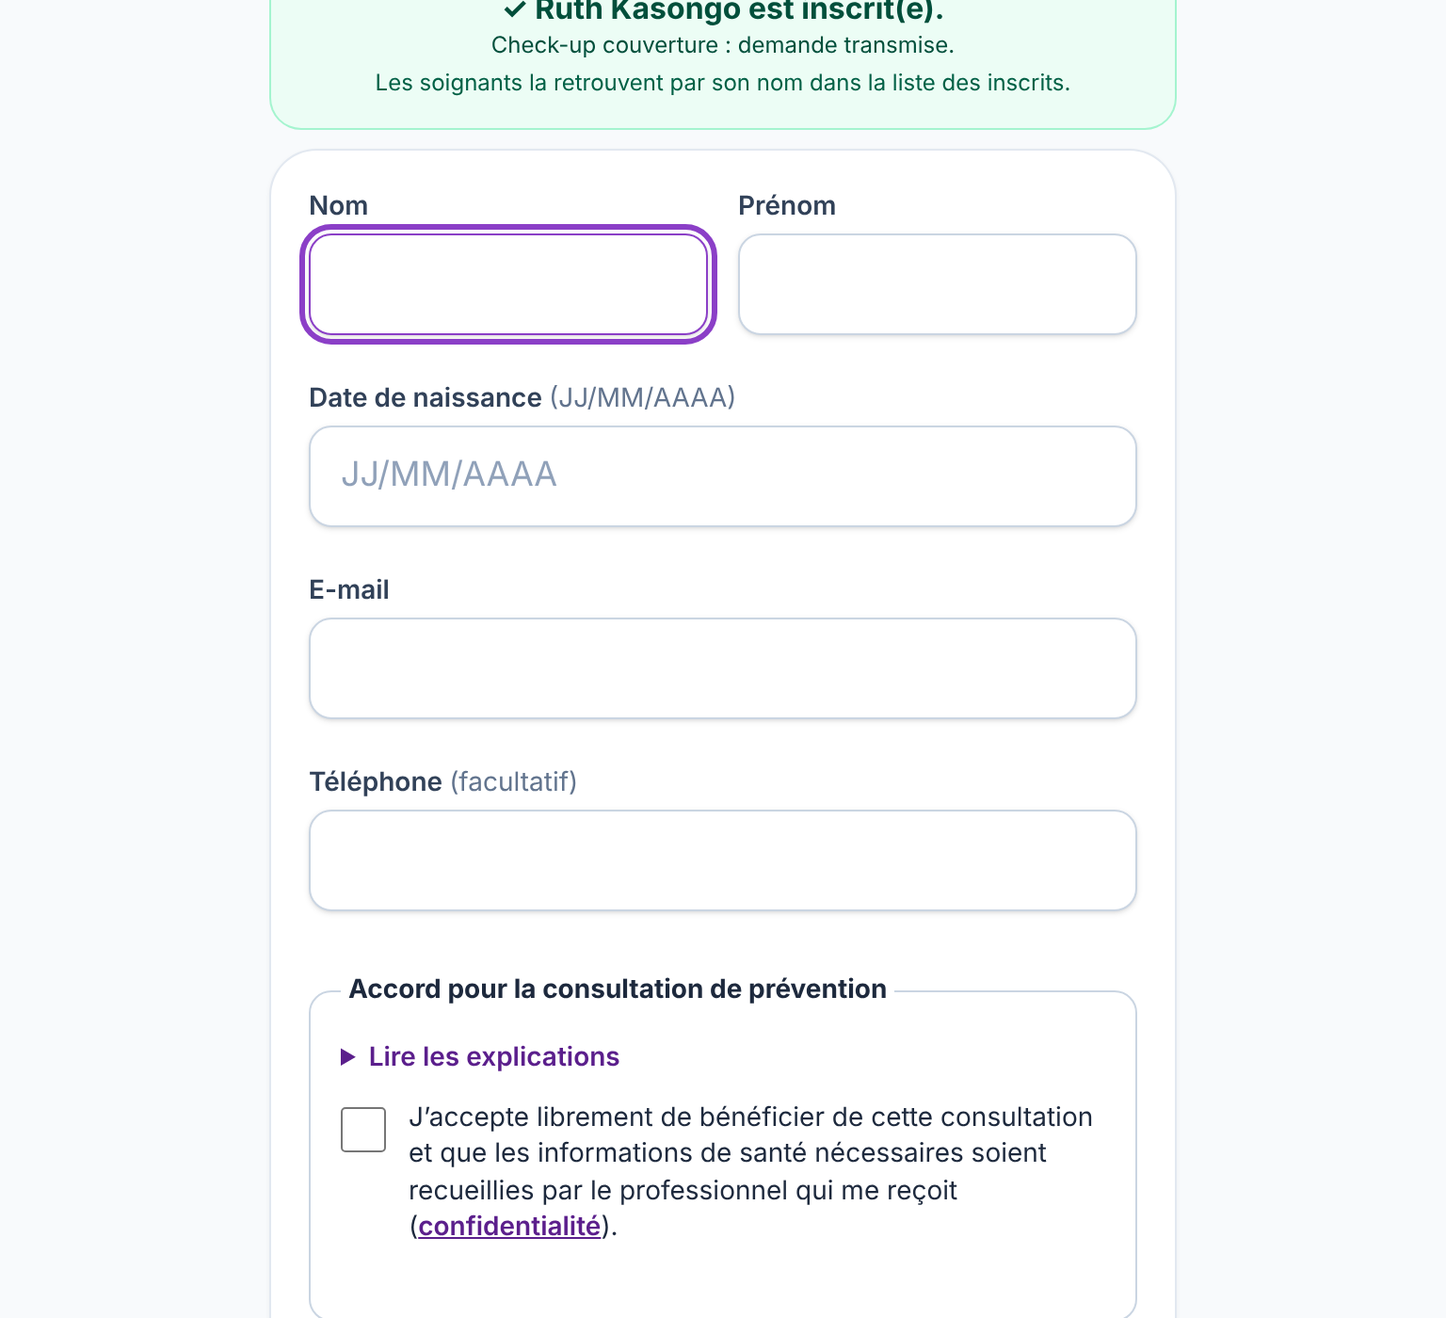
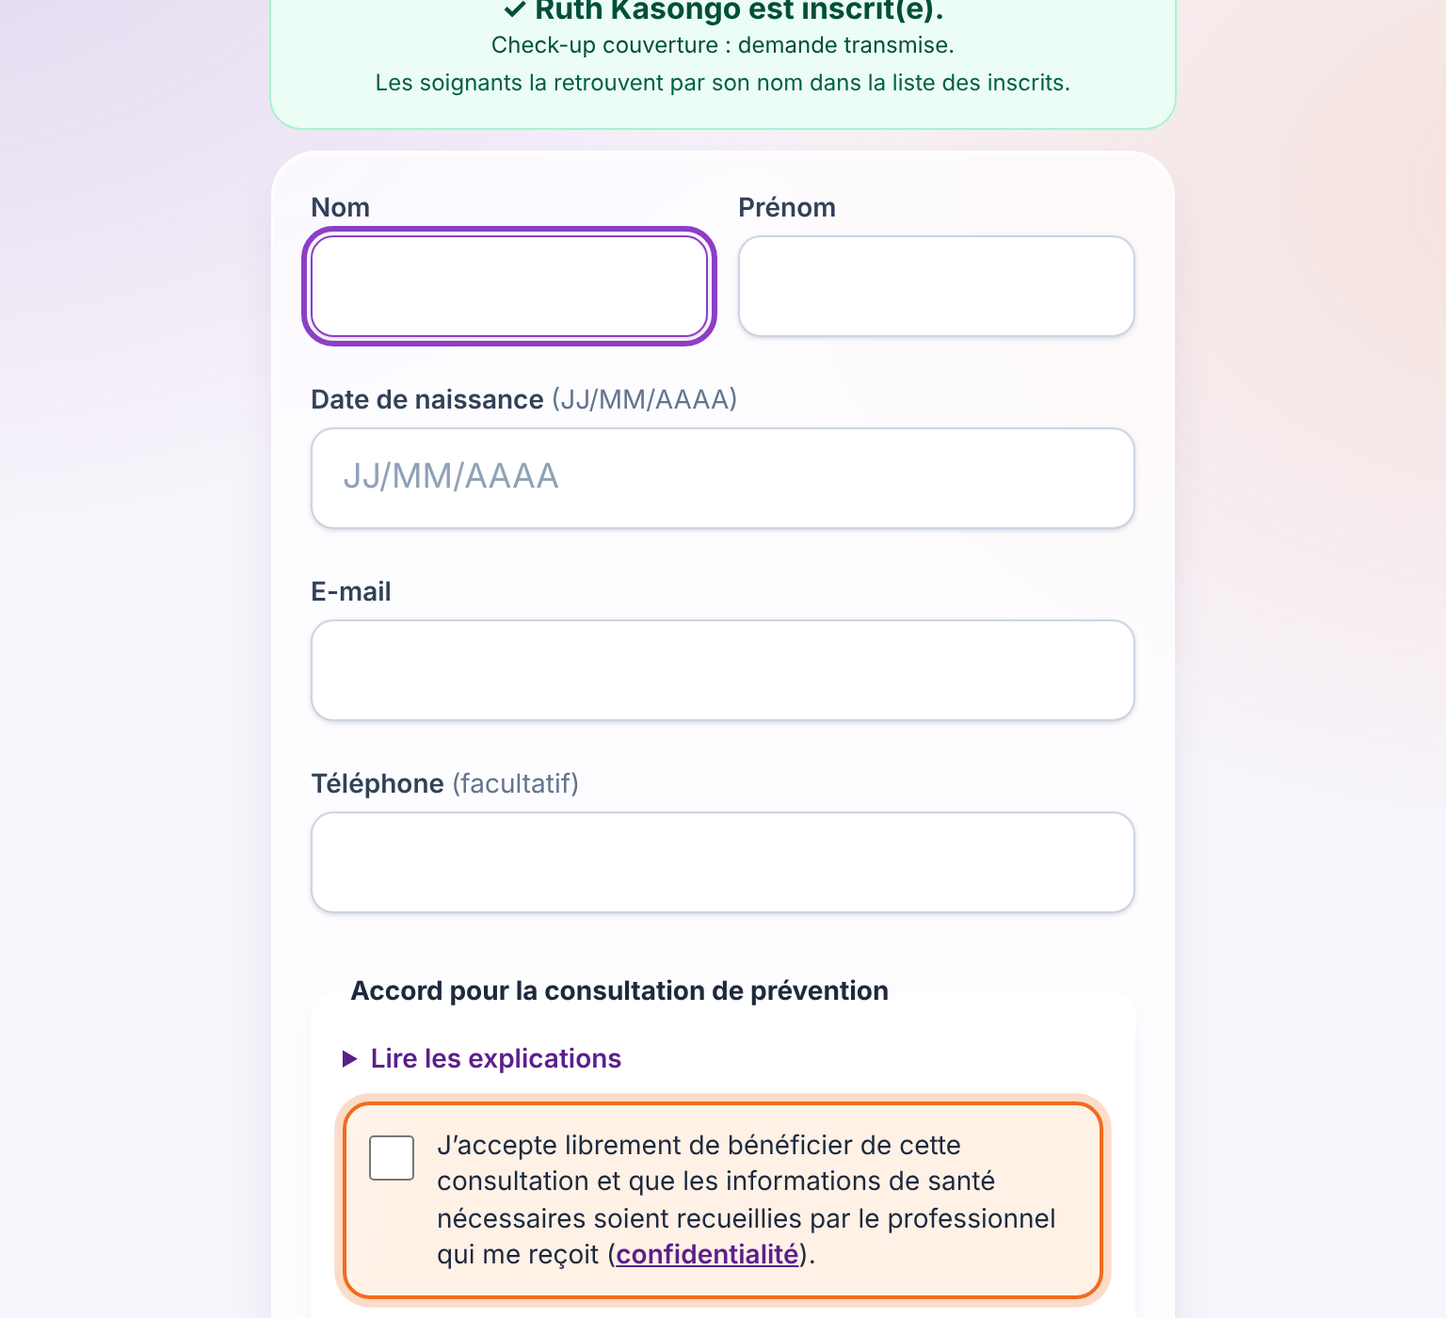
feat(ui): glassmorphism léger, ergonomie téléphone, accords obligatoires qui scintillent
- Fond dégradé violet/orange fixe, cartes et en-têtes en verre dépoli (repli opaque sans backdrop-filter)
- Téléphone : bouton « Enregistrer l'inscription » collant en bas, zones tactiles 44 px, encoches (safe-area), pas de zoom au double tap
- Accords obligatoires (consultation + transmission à un médecin) : bordure orange pulsée + reflet tant qu'ils ne sont pas cochés ;
  jamais la case publicitaire ; animation coupée si « réduire les animations »
- Gris secondaire ajusté : contraste WCAG AA (axe-core 0 défaut)

Claude-Session: https://claude.ai/code/session_0126v6MYdg9XEFrELvehvdgW

diff --git a/public/questionnaire.html b/public/questionnaire.html
@@ -24,7 +24,7 @@
     </header>
 
     <form id="survey" novalidate class="space-y-4">
-      <fieldset class="rounded-3xl bg-white p-5 shadow-sm ring-1 ring-slate-200">
+      <fieldset class="glass rounded-3xl p-5">
         <legend class="float-left mb-3 w-full text-lg font-extrabold">1. Poids, taille et IMC</legend>
         <div class="clear-both grid grid-cols-2 gap-3">
           <div><label class="label" for="s-weight">Poids (kg)</label><input class="field" id="s-weight" name="weight" inputmode="decimal" placeholder="70" autocomplete="off"><p class="err" data-err="weight"></p></div>
@@ -34,7 +34,7 @@
         <div class="mt-3"><label class="label" for="s-bmi_normal">Quelle est la valeur normale d’un IMC ?</label><input class="field" id="s-bmi_normal" name="bmi_normal" maxlength="120" autocomplete="off"></div>
       </fieldset>
 
-      <fieldset class="rounded-3xl bg-white p-5 shadow-sm ring-1 ring-slate-200">
+      <fieldset class="glass rounded-3xl p-5">
         <legend class="float-left mb-3 w-full text-lg font-extrabold">2. Périmètre abdominal</legend>
         <div class="clear-both"><label class="label" for="s-waist">Périmètre abdominal (cm)</label><input class="field" id="s-waist" name="waist" inputmode="numeric" placeholder="85" autocomplete="off"><p class="err" data-err="waist"></p></div>
         <p class="mt-2 mb-1 text-sm font-semibold text-slate-700">Quelle est la valeur normale du périmètre abdominal ?</p>
@@ -44,7 +44,7 @@
         </div>
       </fieldset>
 
-      <fieldset class="rounded-3xl bg-white p-5 shadow-sm ring-1 ring-slate-200">
+      <fieldset class="glass rounded-3xl p-5">
         <legend class="float-left mb-3 w-full text-lg font-extrabold">3. Activité physique</legend>
         <p class="clear-both mb-2 text-sm font-semibold text-slate-700">À quelle fréquence pratiquez-vous une activité physique par semaine ?</p>
         <div class="grid grid-cols-2 gap-2" data-choices="activity_freq">
@@ -57,7 +57,7 @@
         <div class="mt-3"><label class="label" for="s-activity_minutes">Minutes d’activité physique par semaine (en moyenne)</label><input class="field" id="s-activity_minutes" name="activity_minutes" inputmode="numeric" placeholder="90" autocomplete="off"><p class="err" data-err="activity_minutes"></p></div>
       </fieldset>
 
-      <fieldset class="rounded-3xl bg-white p-5 shadow-sm ring-1 ring-slate-200">
+      <fieldset class="glass rounded-3xl p-5">
         <legend class="float-left mb-3 w-full text-lg font-extrabold">4. Glycémie</legend>
         <p class="clear-both mb-2 text-sm font-semibold text-slate-700">Avez-vous déjà réalisé un test de glycémie ?</p>
         <div class="grid grid-cols-2 gap-2">
@@ -67,7 +67,7 @@
         <div class="mt-3"><label class="label" for="s-glucose_normal">Selon vous, quelle est la valeur normale de la glycémie à jeun ?</label><input class="field" id="s-glucose_normal" name="glucose_normal" maxlength="120" autocomplete="off"></div>
       </fieldset>
 
-      <fieldset class="rounded-3xl bg-white p-5 shadow-sm ring-1 ring-slate-200">
+      <fieldset class="glass rounded-3xl p-5">
         <legend class="float-left mb-3 w-full text-lg font-extrabold">5. Cholestérol</legend>
         <p class="clear-both mb-2 text-sm font-semibold text-slate-700">Avez-vous une idée de votre taux de cholestérolémie ?</p>
         <div class="grid grid-cols-2 gap-2">
@@ -76,7 +76,7 @@
         </div>
       </fieldset>
 
-      <fieldset class="rounded-3xl bg-white p-5 shadow-sm ring-1 ring-slate-200">
+      <fieldset class="glass rounded-3xl p-5">
         <legend class="float-left mb-3 w-full text-lg font-extrabold">6. Vaccination</legend>
         <p class="clear-both mb-2 text-sm font-semibold text-slate-700">Savez-vous si vos vaccinations sont à jour ?</p>
         <div class="grid grid-cols-3 gap-2">
@@ -87,12 +87,12 @@
         <div class="mt-3"><label class="label" for="s-tetanus">À quelle fréquence le vaccin contre le tétanos doit-il être administré chez l’adulte ?</label><input class="field" id="s-tetanus" name="tetanus" maxlength="120" autocomplete="off"></div>
       </fieldset>
 
-      <fieldset class="rounded-3xl bg-white p-5 shadow-sm ring-1 ring-slate-200">
+      <fieldset class="glass rounded-3xl p-5">
         <legend class="float-left mb-3 w-full text-lg font-extrabold">7. Temps passé devant les écrans</legend>
         <div class="clear-both"><label class="label" for="s-screen_hours">Heures par jour devant les écrans (GSM, ordinateur, télévision…)</label><input class="field" id="s-screen_hours" name="screen_hours" inputmode="decimal" placeholder="3" autocomplete="off"><p class="err" data-err="screen_hours"></p></div>
       </fieldset>
 
-      <fieldset class="rounded-3xl bg-white p-5 shadow-sm ring-1 ring-slate-200">
+      <fieldset class="glass rounded-3xl p-5">
         <legend class="float-left mb-3 w-full text-lg font-extrabold">8. Vos questions</legend>
         <div class="clear-both"><label class="label" for="s-questions">Si vous avez des questions, notez-les ici (elles seront abordées anonymement)</label><textarea class="field text-base" id="s-questions" name="questions" rows="4" maxlength="2000"></textarea></div>
       </fieldset>
@@ -107,7 +107,7 @@
         <p class="text-2xl font-extrabold text-emerald-900">Merci pour votre collaboration !</p>
         <p class="mt-2 text-emerald-900">Ce questionnaire peut servir de base à une discussion individuelle si vous le souhaitez : l’équipe reste à votre disposition à la fin de la présentation.</p>
       </div>
-      <div class="rounded-3xl bg-white p-5 shadow-sm ring-1 ring-slate-200">
+      <div class="glass rounded-3xl p-5">
         <h2 class="mb-3 text-lg font-extrabold">Les repères à retenir</h2>
         <ul id="answers" class="space-y-3 text-sm text-slate-700"></ul>
         <p class="mt-4 text-xs text-slate-500">Repères généraux pour adultes : ils ne remplacent pas l’avis de votre médecin.</p>

diff --git a/styles/input.css b/styles/input.css
@@ -9,16 +9,71 @@
   --color-sky-400: #c084fc; --color-sky-500: #a855f7; --color-sky-600: #8b3fc7; --color-sky-700: #6d28a8;
   --color-sky-800: #5b1f8c; --color-sky-900: #3f1466; --color-sky-950: #2a0c47;
   --color-accent: #f26b1d; --color-accent-dark: #c2410c; --color-accent-soft: #fff1e6;
+  /* Gris secondaire un peu plus foncé : contraste AA garanti sur le fond teinté */
+  --color-slate-500: #536176;
   --font-sans: system-ui, -apple-system, "Segoe UI", Roboto, "Helvetica Neue", Arial, sans-serif;
 }
 
 @layer base {
   html { -webkit-tap-highlight-color: transparent; }
-  body { @apply bg-slate-50 text-slate-900 antialiased; }
+  body { @apply text-slate-900 antialiased; background: #f7f4fb; }
+  /* Fond doux aux couleurs du séminaire (fixe, sans coût de défilement sur iOS) */
+  body::before {
+    content: ""; position: fixed; inset: 0; z-index: -1; pointer-events: none;
+    background:
+      radial-gradient(60rem 40rem at -10% -10%, rgb(109 40 168 / .16), transparent 60%),
+      radial-gradient(50rem 35rem at 110% 10%, rgb(242 107 29 / .14), transparent 60%),
+      radial-gradient(60rem 40rem at 50% 120%, rgb(139 63 199 / .12), transparent 60%);
+  }
+  /* Téléphone : pas de zoom au double tap, défilement contenu dans les fenêtres */
+  a, button, label, summary, [role=tab] { touch-action: manipulation; }
+  dialog { overscroll-behavior: contain; }
+  body { padding-left: env(safe-area-inset-left); padding-right: env(safe-area-inset-right); }
   input, textarea, select, button { font: inherit; }
   :focus-visible { @apply outline-3 outline-offset-2 outline-sky-600; }
   dialog::backdrop { background: rgb(15 23 42 / 0.55); }
   [hidden] { display: none !important; }
+}
+
+/* Verre dépoli léger (repli opaque si le navigateur ne gère pas le flou) */
+@utility glass {
+  background-color: rgb(255 255 255 / .74);
+  border: 1px solid rgb(255 255 255 / .7);
+  box-shadow: 0 10px 30px -12px rgb(42 12 71 / .18), inset 0 1px 0 rgb(255 255 255 / .6);
+  -webkit-backdrop-filter: blur(16px) saturate(1.5);
+  backdrop-filter: blur(16px) saturate(1.5);
+  @supports not ((backdrop-filter: blur(1px)) or (-webkit-backdrop-filter: blur(1px))) { background-color: rgb(255 255 255 / .97); }
+}
+@utility glass-soft {
+  background-color: rgb(255 255 255 / .82);
+  border: 1px solid rgb(255 255 255 / .75);
+  box-shadow: 0 4px 16px -8px rgb(42 12 71 / .14);
+}
+
+/* Accords obligatoires : scintillent tant qu'ils ne sont pas cochés (jamais la case publicitaire). */
+@keyframes attn-pulse { 0%, 100% { box-shadow: 0 0 0 0 rgb(242 107 29 / 0); } 50% { box-shadow: 0 0 0 5px rgb(242 107 29 / .28); } }
+@keyframes attn-sheen { from { background-position: 160% 0; } to { background-position: -60% 0; } }
+@utility attn {
+  border-radius: .9rem;
+  &:not(:has(input:checked)) {
+    border: 2px solid var(--color-accent);
+    background-image: linear-gradient(105deg, transparent 35%, rgb(255 255 255 / .85) 50%, transparent 65%), linear-gradient(var(--color-accent-soft), var(--color-accent-soft));
+    background-size: 250% 100%, 100% 100%;
+    background-repeat: no-repeat;
+    animation: attn-pulse 1.6s ease-in-out infinite, attn-sheen 2.4s linear infinite;
+  }
+  &:has(input:checked) { border: 2px solid transparent; }
+  @media (prefers-reduced-motion: reduce) { &:not(:has(input:checked)) { animation: none; } }
+}
+@utility attn-group {
+  &:not(:has(input:checked)) > label {
+    border-color: var(--color-accent);
+    background-image: linear-gradient(105deg, transparent 35%, rgb(255 255 255 / .85) 50%, transparent 65%), linear-gradient(var(--color-accent-soft), var(--color-accent-soft));
+    background-size: 250% 100%, 100% 100%;
+    background-repeat: no-repeat;
+    animation: attn-pulse 1.6s ease-in-out infinite, attn-sheen 2.4s linear infinite;
+  }
+  @media (prefers-reduced-motion: reduce) { &:not(:has(input:checked)) > label { animation: none; } }
 }
 
 @utility field {
@@ -34,7 +89,7 @@
 @utility btn-ghost { @apply btn border border-slate-300 bg-white text-slate-800 hover:bg-slate-100; }
 @utility btn-danger { @apply btn border border-red-300 bg-white text-red-700 hover:bg-red-50; }
 @utility chip {
-  @apply rounded-full border border-slate-300 bg-white px-3 py-1.5 text-sm font-semibold text-slate-700;
+  @apply rounded-full border border-slate-300 bg-white px-3 py-1.5 text-sm font-semibold text-slate-700 pointer-coarse:min-h-11 pointer-coarse:py-2;
   &[aria-pressed="true"] { @apply border-slate-900 bg-slate-900 text-white; }
 }
 @utility spinner { @apply inline-block size-5 animate-spin rounded-full border-2 border-current border-r-transparent; }

diff --git a/web/form.js b/web/form.js
@@ -23,13 +23,13 @@ export function identityFieldsHtml(prefix, { staff = false } = {}) {
       <input id="${prefix}-website" name="website" tabindex="-1" autocomplete="off">
     </div>
 
-    <fieldset class="mt-2 rounded-xl border border-slate-300 bg-white p-4">
+    <fieldset class="glass-soft mt-2 rounded-xl p-4">
       <legend class="px-1 text-sm font-bold text-slate-800">Accord pour la consultation de prévention</legend>
       <details class="mb-3 text-sm text-slate-600">
         <summary class="cursor-pointer font-semibold text-sky-800">Lire les explications</summary>
         <p class="mt-2">Consultation bénévole et gratuite auprès d’un professionnel de santé. Elle vise à faire le point sur votre santé, à recevoir des conseils et, si nécessaire, à être orienté(e) vers un suivi médical. Elle ne remplace pas votre suivi habituel. Vous pouvez refuser ou interrompre la consultation à tout moment.</p>
       </details>
-      <label class="flex cursor-pointer items-start gap-3">
+      <label class="attn flex cursor-pointer items-start gap-3 p-3">
         <input type="checkbox" name="consent" required class="mt-1 size-6 shrink-0 accent-sky-700" aria-describedby="${prefix}-consent-err">
         <span class="text-sm leading-snug text-slate-800">${
           staff
@@ -40,18 +40,18 @@ export function identityFieldsHtml(prefix, { staff = false } = {}) {
       <p class="err" id="${prefix}-consent-err" aria-live="polite"></p>
     </fieldset>
 
-    <fieldset class="mt-2 rounded-xl border border-slate-300 bg-white p-4" aria-describedby="${prefix}-doctor_consent-err">
+    <fieldset class="glass-soft mt-2 rounded-xl p-4" aria-describedby="${prefix}-doctor_consent-err">
       <legend class="px-1 text-sm font-bold text-slate-800">Transmission à un médecin</legend>
       <p class="mb-3 text-sm text-slate-600">${
         staff
           ? 'Le participant autorise-t-il la transmission de ses données personnelles à un médecin qui pourra suivre son dossier si nécessaire ?'
           : 'J’autorise la transmission de mes données personnelles à un médecin qui pourra suivre mon dossier si nécessaire.'
       }</p>
-      <div class="grid grid-cols-2 gap-2">
-        <label class="flex min-h-12 cursor-pointer items-center gap-2 rounded-xl border border-slate-300 px-3 has-checked:border-sky-700 has-checked:bg-sky-50">
+      <div class="attn-group grid grid-cols-2 gap-2">
+        <label class="flex min-h-12 cursor-pointer items-center gap-2 rounded-xl border-2 border-slate-300 px-3 has-checked:border-sky-700 has-checked:bg-sky-50">
           <input type="radio" name="doctor_consent" value="1" class="size-5 accent-sky-700"> <span class="text-sm font-semibold">J’autorise</span>
         </label>
-        <label class="flex min-h-12 cursor-pointer items-center gap-2 rounded-xl border border-slate-300 px-3 has-checked:border-sky-700 has-checked:bg-sky-50">
+        <label class="flex min-h-12 cursor-pointer items-center gap-2 rounded-xl border-2 border-slate-300 px-3 has-checked:border-sky-700 has-checked:bg-sky-50">
           <input type="radio" name="doctor_consent" value="0" class="size-5 accent-sky-700"> <span class="text-sm font-semibold">Je n’autorise pas</span>
         </label>
       </div>

diff --git a/public/admin.html b/public/admin.html
@@ -11,7 +11,7 @@
   <link rel="stylesheet" href="/app.css">
 </head>
 <body class="min-h-dvh">
-  <header class="border-b border-slate-200 bg-white">
+  <header class="glass sticky top-0 z-10 rounded-none border-x-0 border-t-0 pt-[env(safe-area-inset-top)]">
     <div class="mx-auto flex max-w-4xl flex-wrap items-center gap-2 px-4 py-3">
       <h1 class="mr-auto flex items-center gap-2 text-lg font-extrabold"><img src="/logo.svg" alt="" class="size-8" width="32" height="32"><span>Check<span class="text-sky-700">Santé</span> <span class="font-semibold text-slate-500">· Administration</span></span></h1>
       <button id="add-key" type="button" hidden class="btn-ghost min-h-10 px-3 py-2 text-sm">Ajouter une clé</button>
@@ -40,12 +40,12 @@
       <!-- Corbeille -->
       <section id="tab-trash" hidden role="tabpanel" aria-labelledby="btn-trash">
         <div class="grid gap-3 sm:grid-cols-2">
-          <div class="rounded-2xl bg-white p-4 ring-1 ring-slate-200">
+          <div class="glass rounded-2xl p-4">
             <p class="text-sm text-slate-600">Inscrits actifs</p>
             <p class="text-3xl font-black" id="t-active">0</p>
             <button id="t-trash-all" type="button" class="btn-danger mt-3 min-h-10 w-full py-2 text-sm">Tout mettre à la corbeille</button>
           </div>
-          <div class="rounded-2xl bg-white p-4 ring-1 ring-slate-200">
+          <div class="glass rounded-2xl p-4">
             <p class="text-sm text-slate-600">Dans la corbeille</p>
             <p class="text-3xl font-black" id="t-count">0</p>
             <div class="mt-3 grid grid-cols-2 gap-2">
@@ -59,7 +59,7 @@
         <input id="t-q" type="search" class="field mt-4 py-2.5" placeholder="Rechercher un nom…" autocomplete="off">
         <ul id="t-list" class="mt-3 space-y-2"></ul>
         <p id="t-empty-msg" class="py-10 text-center text-slate-500"></p>
-        <div class="mt-4 flex flex-wrap items-center gap-3 rounded-2xl bg-white p-4 ring-1 ring-slate-200">
+        <div class="glass mt-4 flex flex-wrap items-center gap-3 rounded-2xl p-4">
           <p class="mr-auto text-sm text-slate-700">Questionnaire anonyme : <b id="t-surveys">0</b> réponse(s)</p>
           <button id="t-clear-surveys" type="button" class="btn-danger min-h-10 px-3 py-2 text-sm">Effacer toutes les réponses</button>
         </div>

diff --git a/web/admin.js b/web/admin.js
@@ -26,7 +26,7 @@ function render() {
   $('c-list').innerHTML = rows
     .map((l) => {
       const tags = (l.interests || '').split(',').filter(Boolean).map((i) => `<span class="rounded-lg bg-sky-50 px-2 py-0.5 text-xs font-semibold text-sky-900">${esc(LABELS[i] || i)}</span>`).join(' ');
-      return `<li class="rounded-2xl bg-white p-4 shadow-sm ring-1 ring-slate-200" data-id="${esc(l.id)}">
+      return `<li class="glass-soft rounded-2xl p-4" data-id="${esc(l.id)}">
         <div class="flex flex-wrap items-start gap-2">
           <div class="mr-auto min-w-0">
             <p class="font-bold">${esc(l.name)} <span class="text-xs font-normal text-slate-500">· ${date(l.created_at)} · ${l.audience === 'pro' ? 'Professionnel de santé' : 'Particulier'}</span></p>
@@ -107,7 +107,7 @@ function renderTrash() {
   const rows = trash.items.filter((x) => !q || `${x.last_name} ${x.first_name}`.toLowerCase().includes(q));
   $('t-list').innerHTML = rows
     .map(
-      (x) => `<li class="flex flex-wrap items-center gap-3 rounded-2xl bg-white p-4 shadow-sm ring-1 ring-slate-200" data-id="${esc(x.id)}">
+      (x) => `<li class="glass-soft flex flex-wrap items-center gap-3 rounded-2xl p-4" data-id="${esc(x.id)}">
         <span class="size-3 shrink-0 rounded-full ${T_COL[x.triage] ?? T_COL[0]}" aria-hidden="true"></span>
         <div class="mr-auto min-w-0 flex-1 basis-56">
           <p class="font-bold">${esc(x.last_name)} ${esc(x.first_name)}${x.birth_date ? ` <span class="text-xs font-normal text-slate-500">· né(e) le ${esc(x.birth_date.split('-').reverse().join('/'))}</span>` : ''}</p>

diff --git a/public/index.html b/public/index.html
@@ -36,14 +36,14 @@
     </header>
 
     <div id="done" hidden class="mb-3" role="status" aria-live="polite"></div>
-    <form id="reg" novalidate class="relative space-y-1 rounded-3xl bg-white p-5 shadow-sm ring-1 ring-slate-200">
+    <form id="reg" novalidate class="glass relative space-y-1 rounded-3xl p-5">
       <div id="reg-fields"></div>
       <p data-form-error class="err text-center" role="alert"></p>
-      <button type="submit" class="btn-primary w-full text-lg">Enregistrer l’inscription</button>
+      <button type="submit" class="btn-primary sticky bottom-[max(.75rem,env(safe-area-inset-bottom))] z-10 w-full text-lg shadow-lg shadow-sky-900/20">Enregistrer l’inscription</button>
     </form>
 
 
-    <a href="/staff" class="btn-ghost mt-8 w-full text-sm">
+    <a href="/staff" class="btn glass mt-8 w-full text-sm text-slate-800">
       <svg viewBox="0 0 24 24" class="size-5" fill="none" stroke="currentColor" stroke-width="2" aria-hidden="true"><rect x="5" y="11" width="14" height="10" rx="2"/><path d="M8 11V7a4 4 0 0 1 8 0v4"/></svg>
       Liste des inscrits (soignants)
     </a>

diff --git a/web/staff.js b/web/staff.js
@@ -73,7 +73,7 @@ function rowHtml(p, level) {
         : `<span class="text-xs font-semibold tabular-nums ${waitMin(p) >= 30 ? 'text-red-700' : 'text-slate-500'}" title="Temps d’attente">⏱ ${fmtWait(waitMin(p))}</span>`;
   const doc = p.doctor ? `<span class="rounded-lg bg-sky-100 px-2 py-0.5 text-xs font-bold text-sky-900">${DOCTORS[p.doctor].short}</span>` : '';
   return `<li>
-    <button type="button" data-id="${esc(p.id)}" class="flex w-full items-stretch overflow-hidden rounded-2xl bg-white text-left shadow-sm ring-1 ring-slate-200 hover:ring-slate-400 ${stage === 2 ? 'opacity-60' : ''}">
+    <button type="button" data-id="${esc(p.id)}" class="glass-soft flex w-full items-stretch overflow-hidden rounded-2xl text-left hover:border-sky-300 ${stage === 2 ? 'opacity-60' : ''}">
       <span class="t${level} w-2 shrink-0" aria-hidden="true"></span>
       <span class="flex min-w-0 flex-1 flex-wrap items-center gap-x-3 gap-y-1 px-4 py-3">
         <span class="min-w-0 flex-1">

diff --git a/public/staff.html b/public/staff.html
@@ -26,7 +26,7 @@
   </main>
 
   <div id="app" hidden>
-    <header class="sticky top-0 z-20 border-b border-slate-200 bg-white/95 backdrop-blur">
+    <header class="glass sticky top-0 z-20 rounded-none border-x-0 border-t-0 pt-[env(safe-area-inset-top)]">
       <div class="mx-auto flex max-w-5xl flex-wrap items-center gap-2 px-4 py-2">
         <h1 class="mr-auto flex min-w-0 items-center gap-2 text-lg font-extrabold"><img src="/logo.svg" alt="" class="size-8" width="32" height="32"><span class="hidden min-[420px]:inline">Check<span class="text-sky-700">Santé</span><span class="hidden font-semibold text-slate-500 sm:inline"> · Pôle soins</span></span></h1>
         <span id="status" class="inline-flex items-center gap-1.5 rounded-full bg-slate-100 px-3 py-1 text-xs font-bold" role="status" aria-live="polite"></span>

diff --git a/public/partenaire.html b/public/partenaire.html
@@ -21,7 +21,7 @@
       <label class="choice"><input type="radio" name="aud" value="pro" form="lead"> Professionnel de santé</label>
     </div>
 
-    <form id="lead" novalidate class="relative mt-4 space-y-1 rounded-3xl bg-white p-5 shadow-sm ring-1 ring-slate-200">
+    <form id="lead" novalidate class="glass relative mt-4 space-y-1 rounded-3xl p-5">
       <fieldset>
         <legend class="label">Vos besoins <span class="font-normal text-slate-500">(facultatif)</span></legend>
         <div id="interests" class="grid grid-cols-2 gap-2"></div>
